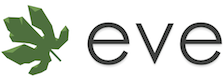
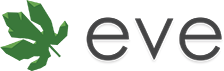
Proper artwork, and some more features

Changed region(s): [[0.0, 0.0, 0.3125, 1.0], [0.5938, 0.2254, 1.0, 0.9014], [0.375, 0.2254, 0.5938, 0.9014]]

diff --git a/searchindex.js b/searchindex.js
@@ -1,1 +1,1 @@
-Search.setIndex({objects:{},terms:{origin:0,all:0,rhoncu:[],identifi:[],ant:[],nosql:0,laoreet:[],ciao:[],blandit:[],consum:0,lorem:[],rest:0,ultrici:[],elit:[],bring:0,code:0,lacu:[],touch:0,vita:[],sidebar:0,fine:0,find:0,nunc:[],request:0,xml:0,b4446e62abcae5e7c6a658b7fe333b10b96eadd5:[],semper:[],now:0,locat:[],firstnam:[],also:0,configur:0,"_link":[],consectetur:[],cursu:[],allow:[],under:0,variu:[],sapien:[],modul:[],gmt:[],applic:0,non:[],sourc:0,rel:0,get:0,python:0,overal:0,crud:0,nibh:[],egesta:[],bibendum:[],nativ:[],hateoa:0,glorifi:[],progress:0,veri:0,risu:[],luctu:[],odio:[],ipsum:[],nisi:[],name:0,nisl:[],level:0,viverra:[],molesti:[],primi:[],integ:[],patch:0,lacinia:[],item:0,achiev:0,api:0,common:0,team:0,fulli:0,"_item":[],where:0,page:0,pleas:0,set:0,sep:[],persist:[],multipl:0,back:0,born:[],sed:[],sampl:[],connect:[],respons:0,eleifend:[],"514ac636a6a8d0000283f8b0":[],sem:[],server:[],integr:0,meanwuil:[],what:0,est:[],augu:[],databas:0,http:0,nec:[],payload:[],content:[],delet:0,state:0,version:0,ligula:[],werkzeug:[],mongodb:0,"import":0,morbi:[],backend:0,refer:0,altern:[],suscipit:[],full:0,run:0,advanc:[],orci:[],usag:0,standard:[],readm:[],extens:0,white:[],web:0,tempu:[],magna:[],curabitur:[],post:0,posuer:[],amet:[],aenean:[],aliquam:[],vestibulum:[],cor:0,last:0,"_readm":[],launch:0,via:[],pretium:[],justo:[],libero:[],capabl:[],keep:[],adipisc:[],chrome:[],venenati:[],along:[],pagin:0,aliv:[],quisqu:[],nulla:[],etag:0,browser:0,com:0,support:0,oper:0,rang:0,own:0,sat:[],repositori:[],can:0,onc:[],app:0,lastnam:[],effortlessli:0,automat:0,qui:[],instruct:[],href:[],deploi:0,contributor:[],instal:[],custom:[],imperdiet:[],your:0,matti:[],highli:0,obligatori:[],dui:[],praesent:[],from:0,creat:[],script:0,interdum:[],come:0,fri:[],hypermedia:0,suspendiss:[],mar:[],json:0,avail:0,citi:[],live:0,joseph:[],tune:0,length:[],sagitti:[],john:0,type:[],compliant:0,more:0,sort:0,box:0,verb:[],phenomen:[],nequ:[],eget:[],cubilia:[],copi:[],vulput:[],idea:0,loborti:[],modifi:0,pellentesqu:[],minim:[],eas:0,hold:[],cach:0,"case":0,utc:[],kind:[],made:0,tortor:[],"default":0,phasellu:[],maecena:[],exampl:0,faucibu:[],insert:0,"while":[],street:[],store:[],abov:[],volutpat:[],malesuada:[],document:0,address:[],most:[],control:0,featur:0,customiz:0,objectid:0,ultric:[],process:0,demo:0,ann:[],share:0,ani:0,direct:0,erat:[],proprietari:[],expir:[],file:0,cura:[],need:0,onlin:0,curl:0,work:0,endpoint:0,check:0,urna:[],nullam:[],concurr:0,filter:0,readi:0,meanwhil:0,engin:0,herokuapp:[],puru:[],inform:0,titl:[],self:[],sollicitudin:[],header:0,cross:0,access:[],nam:[],other:0,when:[],etiam:[],role:[],build:0,which:[],peopl:0,thu:[],you:0,out:0,simpl:0,singl:0,updat:[],arcu:[],vehicula:[],resourc:0,dapibu:[],max:[],dolor:[],nicolaiarocci:[],tristiqu:[],diam:[],queri:0,feli:[],sql:0,date:[],develop:0,aliquet:[],tincidunt:[],data:0,placerat:[],porttitor:[],welcom:[],readme_:[],github:[],conval:[],syntax:0,condit:0,valid:0,sit:[],lectu:[],turpi:[],doe:0,mauri:[],person:[],client:0,ashfield:[],thi:0,time:[],link:0,"_id":[],fermentum:[]},objtypes:{},titles:["RESTful APIs Made Simple"],objnames:{},filenames:["index"]})
+Search.setIndex({objects:{},terms:{all:0,rhoncu:[],ciao:[],queri:0,consum:0,code:0,lacu:[],nunc:[],flask:0,under:0,sourc:0,verb:[],veri:0,risu:[],luctu:[],level:0,item:0,team:0,"_item":[],setup:[],pleas:0,work:0,direct:0,street:[],eleifend:[],what:0,diam:[],nec:[],current:[],delet:0,version:0,suscipit:[],full:0,address:[],imperdiet:[],along:[],modifi:0,aliquam:[],box:0,adipisc:[],venenati:[],nulla:[],via:[],app:0,morbi:[],href:[],instal:[],highli:0,from:0,readi:0,live:0,sagitti:[],type:[],more:0,sort:0,phenomen:[],nequ:[],peopl:0,vehicula:[],hold:[],effort:0,cach:0,endpoint:0,phasellu:[],maecena:[],can:0,aliv:[],control:0,objectid:0,ultric:[],process:0,herokuapp:[],share:0,proprietari:[],want:[],onlin:0,nullam:[],multipl:0,puru:[],sit:[],etiam:[],simpl:0,updat:[],arcu:[],mar:[],resourc:0,max:[],tristiqu:[],date:[],data:0,readme_:[],github:[],turpi:[],inform:0,allow:[],origin:0,help:[],elit:[],vita:[],"_link":[],persist:[],sapien:[],non:[],python:0,overal:0,nibh:[],egesta:[],framework:0,hateoa:0,glorifi:[],now:0,odio:[],ipsum:[],name:0,viverra:[],lacinia:[],achiev:0,fulli:0,idea:0,connect:[],out:0,content:[],etag:0,rel:0,integr:0,"514ac636a6a8d0000283f8b0":[],advanc:[],standard:[],tempu:[],qui:[],vestibulum:[],launch:0,keep:[],filter:0,length:[],pagin:0,oper:0,rang:0,onc:[],lastnam:[],instruct:[],payload:[],obligatori:[],script:0,citi:[],white:[],john:0,store:[],copi:[],molesti:[],kind:[],sollicitudin:[],faucibu:[],browser:0,ann:[],cubilia:[],ani:0,ant:[],expir:[],need:0,sat:[],engin:0,self:[],also:0,client:0,build:0,which:[],singl:0,nicolaiarocci:[],most:[],deploi:0,porttitor:[],lectu:[],doe:0,meanwhil:0,dolor:[],"_id":[],laoreet:[],blandit:[],syntax:0,bring:0,concurr:0,fine:0,find:0,postgresql_:[],xml:0,access:[],locat:[],firstnam:[],configur:0,consectetur:[],cursu:[],variu:[],get:0,bibendum:[],nativ:[],progress:0,malesuada:[],nisi:[],nisl:[],primi:[],patch:0,common:0,orci:[],where:0,set:0,sep:[],sed:[],respons:0,sem:[],databas:0,state:0,"import":0,altern:[],b4446e62abcae5e7c6a658b7fe333b10b96eadd5:[],extens:0,magna:[],posuer:[],amet:[],cor:0,last:0,placerat:[],com:0,header:0,matti:[],backend:0,dui:[],pretium:[],chrome:[],come:0,fri:[],suspendiss:[],json:0,vulput:[],pellentesqu:[],"case":0,tortor:[],"while":[],abov:[],volutpat:[],customiz:0,semper:[],demo:0,readm:[],erat:[],develop:0,welcom:[],minim:[],cross:0,document:0,http:0,hand:0,capabl:[],effortlessli:0,tune:0,thu:[],person:[],exampl:0,thi:0,identifi:[],nosql:0,rest:0,touch:0,sidebar:0,ligula:[],web:0,easi:[],valid:0,modul:[],gmt:[],applic:0,mayb:0,crud:0,tincidunt:[],insert:0,integ:[],server:[],api:0,page:0,back:0,born:[],sampl:[],meanwuil:[],est:[],ultrici:[],werkzeug:[],condit:0,refer:0,run:0,power:0,usag:0,repositori:[],curabitur:[],post:0,aenean:[],postgresql:0,"_readm":[],justo:[],libero:[],quisqu:[],own:0,automat:0,contributor:[],your:0,praesent:[],interdum:[],support:0,hypermedia:0,custom:[],avail:0,compliant:0,joseph:[],augu:[],eget:[],loborti:[],link:0,eas:0,utc:[],made:0,"default":0,featur:0,creat:[],request:0,file:0,cura:[],pip:[],mauri:[],curl:0,check:0,urna:[],conval:[],titl:[],when:[],nam:[],other:0,role:[],you:0,dapibu:[],lend:0,mongodb:0,feli:[],sql:0,aliquet:[],lorem:[],ashfield:[],time:[],fermentum:[]},objtypes:{},titles:["RESTful APIs Made Simple"],objnames:{},filenames:["index"]})

diff --git a/index.html b/index.html
@@ -24,6 +24,7 @@
     <script type="text/javascript" src="_static/jquery.js"></script>
     <script type="text/javascript" src="_static/underscore.js"></script>
     <script type="text/javascript" src="_static/doctools.js"></script>
+    <link rel="shortcut icon" href="_static/favicon.ico"/>
     <link rel="top" title="Eve 0.0.5-dev documentation" href="#" />
    
   
@@ -54,7 +55,7 @@
   <div class="section" id="restful-apis-made-simple">
 <h1>RESTful APIs Made Simple<a class="headerlink" href="#restful-apis-made-simple" title="Permalink to this headline">¶</a></h1>
 <p><em>Eve is an out-of-the-box, highly customizable and fully featured RESTful Web
-API that you can use to effortlessly build and deploy your own APIs</em></p>
+API framework that you can use to effortlessly build and deploy your own APIs</em></p>
 <div class="section" id="eve-is-simple">
 <h2>Eve is Simple<a class="headerlink" href="#eve-is-simple" title="Permalink to this headline">¶</a></h2>
 <div class="highlight-python"><div class="highlight"><pre><span class="kn">from</span> <span class="nn">eve</span> <span class="kn">import</span> <span class="n">Eve</span>
@@ -95,9 +96,11 @@ configuring and fine-tuning your API is a very simple process.</p>
 <li>API Versioning</li>
 <li>HATEOAS (Hypermedia as Engine of Application State)</li>
 <li>CORS (Cross-Origin Resource Sharing)</li>
+<li>Powered by <a class="reference external" href="http://flask.pocoo.org">Flask</a>.</li>
 </ul>
 <p>Support for MongoDB comes out of the box; extensions for other SQL/NoSQL
-backends can be developed with relative ease.</p>
+backends can be developed with relative ease. A <a class="reference external" href="https://github.com/nicolaiarocci/eve/issues/17">PostgreSQL
+effort</a> is going on, maybe you can lend a hand?</p>
 </div>
 <div class="section" id="live-demo">
 <h2>Live demo<a class="headerlink" href="#live-demo" title="Permalink to this headline">¶</a></h2>
@@ -181,7 +184,7 @@ Artwork by <a href="http://kalamun.org">Kalamun</a> © 2013
     &copy; Copyright 2013. A <a href="http://nicolaiarocci.com">Nicola Iarocci</a> Project.
   </div>
   <a href="https://github.com/nicolaiarocci/eve" class="github">
-  <img style="position: absolute; top: 0; right: 0; border: 0;" src="http://s3.amazonaws.com/github/ribbons/forkme_right_green_007200.png" alt="Fork me on GitHub"  class="github"/>
+  <img style="position: absolute; top: 0; right: 0; border: 0;" src="_static/forkme_right_green_007200.png" alt="Fork me on GitHub"  class="github"/>
   </a>
   
   </div>

diff --git a/search.html b/search.html
@@ -25,6 +25,7 @@
     <script type="text/javascript" src="_static/underscore.js"></script>
     <script type="text/javascript" src="_static/doctools.js"></script>
     <script type="text/javascript" src="_static/searchtools.js"></script>
+    <link rel="shortcut icon" href="_static/favicon.ico"/>
     <link rel="top" title="Eve 0.0.5-dev documentation" href="index.html" />
   <script type="text/javascript">
     jQuery(function() { Search.loadIndex("searchindex.js"); });
@@ -98,7 +99,7 @@
     &copy; Copyright 2013. A <a href="http://nicolaiarocci.com">Nicola Iarocci</a> Project.
   </div>
   <a href="https://github.com/nicolaiarocci/eve" class="github">
-  <img style="position: absolute; top: 0; right: 0; border: 0;" src="http://s3.amazonaws.com/github/ribbons/forkme_right_green_007200.png" alt="Fork me on GitHub"  class="github"/>
+  <img style="position: absolute; top: 0; right: 0; border: 0;" src="_static/forkme_right_green_007200.png" alt="Fork me on GitHub"  class="github"/>
   </a>
   
   </body>

diff --git a/genindex.html b/genindex.html
@@ -26,6 +26,7 @@
     <script type="text/javascript" src="_static/jquery.js"></script>
     <script type="text/javascript" src="_static/underscore.js"></script>
     <script type="text/javascript" src="_static/doctools.js"></script>
+    <link rel="shortcut icon" href="_static/favicon.ico"/>
     <link rel="top" title="Eve 0.0.5-dev documentation" href="index.html" />
    
   
@@ -91,7 +92,7 @@
     &copy; Copyright 2013. A <a href="http://nicolaiarocci.com">Nicola Iarocci</a> Project.
   </div>
   <a href="https://github.com/nicolaiarocci/eve" class="github">
-  <img style="position: absolute; top: 0; right: 0; border: 0;" src="http://s3.amazonaws.com/github/ribbons/forkme_right_green_007200.png" alt="Fork me on GitHub"  class="github"/>
+  <img style="position: absolute; top: 0; right: 0; border: 0;" src="_static/forkme_right_green_007200.png" alt="Fork me on GitHub"  class="github"/>
   </a>
   
   </body>
